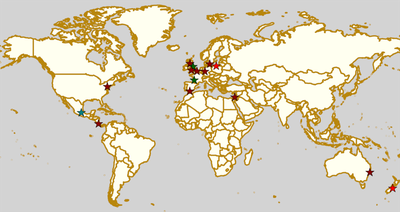
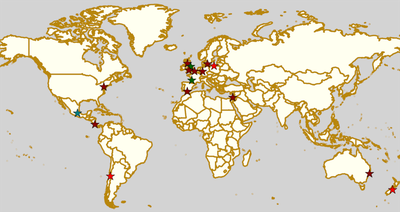
Add Metropolitan / Roller Fest to 24 Aug highlights

diff --git a/posts/highlights/2019/weekendhighlights-24082019/index.html b/posts/highlights/2019/weekendhighlights-24082019/index.html
@@ -204,6 +204,13 @@ get themselves an actual webpage [we can help host one if you need help]).</p>
 <p>Event starts: 1800 Friday (event opens)</p>
 <p>Venue: Skatepark Málaga "Rubén Alcántara", Camino Cuarto,  Málaga, Spain</p>
 </div>
+<div class="section" id="sat-maipu-chile">
+<h2>Sat: Maipú, Chile</h2>
+<p><a class="reference external" href="https://www.facebook.com/metropolitanrollerderby/posts/2649597681720160?">[FACEBOOK LINK (flyer)]</a></p>
+<p><a class="reference external" href="http://www.rollerderby.cl/">Metropolitan Roller Derby</a> are present as one of the many demonstrations as part of Santiago's Roller Fest celebration of all things roller skating. They will be holding a demonstration bout in the Saturday evening.</p>
+<p>Event starts: 1700 Saturday</p>
+<p>Venue: Anfiteatro de Av. Tres Poniente 1930, Maipú, Santiago, Chile</p>
+</div>
 <div class="section" id="sat-sun-san-jose-costa-rica">
 <h2>Sat-Sun: San José, Costa Rica</h2>
 <p><a class="reference external" href="https://www.facebook.com/darksiderollerderby/photos/a.422820884559476/1285840228257533/?type=3">[FACEBOOK LINK (flyer)]</a></p>

diff --git a/posts/highlights/2019/weekendhighlights-24082019/index.rst b/posts/highlights/2019/weekendhighlights-24082019/index.rst
@@ -277,7 +277,21 @@ Event starts: 1800 Friday (event opens)
 
 Venue: Skatepark Málaga "Rubén Alcántara", Camino Cuarto,  Málaga, Spain
 
+Sat: Maipú, Chile
+--------------------------------
 
+`[FACEBOOK LINK (flyer)]`__
+
+.. __: https://www.facebook.com/metropolitanrollerderby/posts/2649597681720160?
+
+
+`Metropolitan Roller Derby`_ are present as one of the many demonstrations as part of Santiago's Roller Fest celebration of all things roller skating. They will be holding a demonstration bout in the Saturday evening.
+
+.. _Metropolitan Roller Derby: http://www.rollerderby.cl/
+
+Event starts: 1700 Saturday
+
+Venue: Anfiteatro de Av. Tres Poniente 1930, Maipú, Santiago, Chile
 
 Sat-Sun: San José, Costa Rica
 --------------------------------
